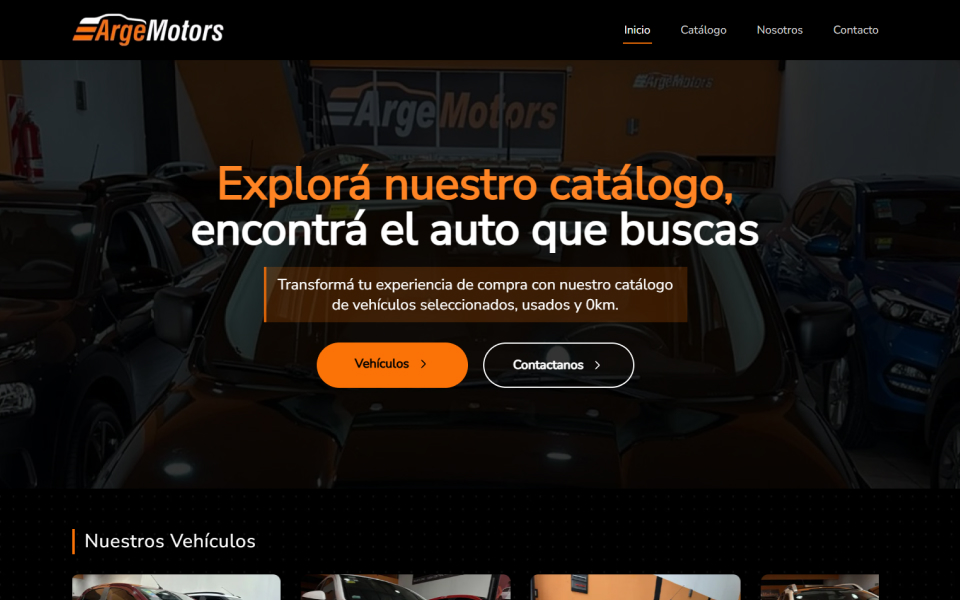
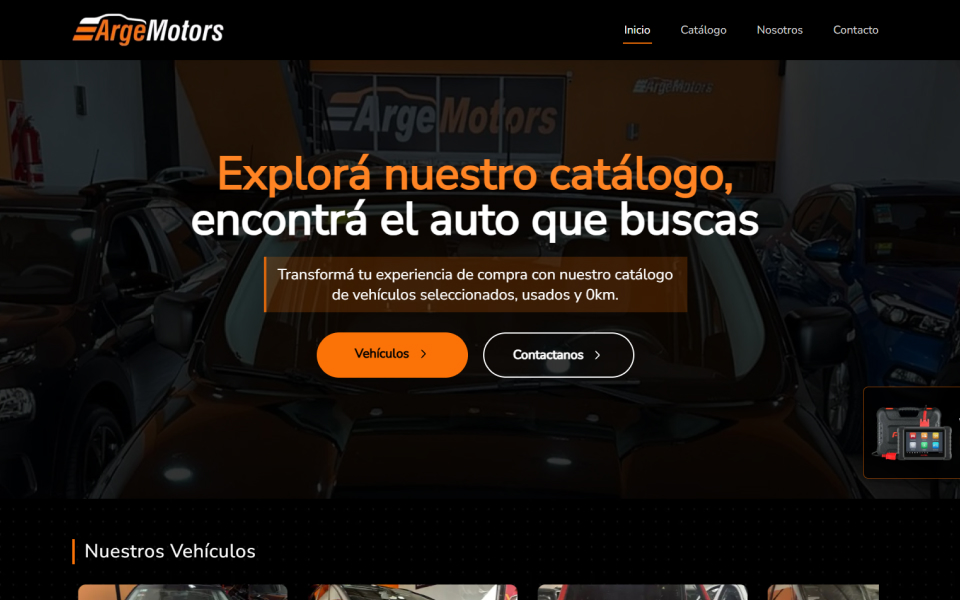
escaner added

diff --git a/src/app/(public)/escaner/page.tsx b/src/app/(public)/escaner/page.tsx
@@ -1,0 +1,160 @@
+'use client';
+
+import Image from 'next/image';
+import { company } from '@/app/constants/constants';
+import Header from '@/components/Header';
+import Footer from '@/components/Footer';
+import { motion } from 'framer-motion';
+import Link from 'next/link';
+import WhatsappFillIcon from '@/components/icons/WhatsappFillIcon';
+
+const EscanerPage = () => {
+  return (
+    <>
+      <Header />
+
+      {/* Hero Section */}
+      <section className='relative h-44 md:h-52 lg:h-64 flex items-center justify-center overflow-hidden'>
+        {/* Contenido centrado */}
+        <div className='relative z-10 text-center px-4 max-w-4xl mx-auto'>
+          <motion.h1
+            initial={{ opacity: 0, y: 30 }}
+            animate={{ opacity: 1, y: 0 }}
+            transition={{ duration: 0.6 }}
+            className={`${
+              company.secondaryColor
+                ? 'text-color-secondary-light'
+                : 'text-color-primary-light'
+            } text-2xl md:text-3xl lg:text-4xl mb-3 md:mb-4 lg:mb-5 font-semibold tracking-wide`}
+          >
+            Escáner Vehicular
+          </motion.h1>
+          <motion.p
+            initial={{ opacity: 0, y: 30 }}
+            animate={{ opacity: 1, y: 0 }}
+            transition={{ duration: 0.6, delay: 0.2 }}
+            className='text-xl md:text-2xl text-white/90 font-medium leading-relaxed'
+          >
+            Transparencia y confianza en cada vehículo
+          </motion.p>
+        </div>
+      </section>
+
+      {/* Sección principal */}
+      <section className='pb-16 md:pb-28 relative'>
+        <div className='max-w-7xl mx-auto px-4 sm:px-6 md:px-8 lg:px-10'>
+          <div className='flex flex-col lg:flex-row gap-8 lg:gap-12 items-center'>
+            {/* Imagen del escáner */}
+            <motion.div
+              initial={{ opacity: 0, x: -50 }}
+              whileInView={{ opacity: 1, x: 0 }}
+              transition={{ duration: 0.6 }}
+              viewport={{ once: true }}
+              className='w-full lg:w-1/2 flex justify-center'
+            >
+              <div className='relative w-full max-w-md aspect-square'>
+                <Image
+                  src='/assets/inicio/escaner.webp'
+                  alt='Escáner de kilometraje profesional'
+                  fill
+                  className='object-contain'
+                  priority
+                />
+              </div>
+            </motion.div>
+
+            {/* Contenido */}
+            <motion.div
+              initial={{ opacity: 0, x: 50 }}
+              whileInView={{ opacity: 1, x: 0 }}
+              transition={{ duration: 0.6, delay: 0.2 }}
+              viewport={{ once: true }}
+              className='w-full lg:w-1/2'
+            >
+              <div className='mb-6'>
+                <div className='flex items-center gap-3 mb-4'>
+                  <div
+                    className={`${
+                      company.secondaryColor
+                        ? 'bg-color-secondary-light'
+                        : 'bg-color-primary'
+                    } w-1 h-8 rounded`}
+                  ></div>
+                  <h2 className='text-2xl md:text-3xl lg:text-4xl font-bold text-color-title-light'>
+                    Verificá el kilometraje real
+                  </h2>
+                </div>
+                <p className='text-lg md:text-xl text-color-text-light leading-relaxed mb-6'>
+                  En {company.name} utilizamos tecnología de última generación
+                  para garantizar la transparencia y confianza en cada
+                  transacción. Contamos con equipamiento profesional de escaneo
+                  que nos permite verificar el kilometraje real de cualquier
+                  vehículo con precisión y confiabilidad.
+                </p>
+              </div>
+
+              {/* Características */}
+              <div className='space-y-4 mb-8'>
+                <motion.div
+                  initial={{ opacity: 0, y: 20 }}
+                  whileInView={{ opacity: 1, y: 0 }}
+                  transition={{ duration: 0.5, delay: 0.3 }}
+                  viewport={{ once: true }}
+                  className='bg-color-bg-secondary border border-neutral-800 rounded-lg p-4'
+                >
+                  <h3 className='text-lg font-semibold text-color-title-light mb-2 flex items-center gap-2'>
+                    <span className='text-color-primary'>✓</span>
+                    Verificación completa
+                  </h3>
+                  <p className='text-color-text-light'>
+                    Lectura precisa del kilometraje almacenado en los módulos
+                    del vehículo
+                  </p>
+                </motion.div>
+
+                <motion.div
+                  initial={{ opacity: 0, y: 20 }}
+                  whileInView={{ opacity: 1, y: 0 }}
+                  transition={{ duration: 0.5, delay: 0.4 }}
+                  viewport={{ once: true }}
+                  className='bg-color-bg-secondary border border-neutral-800 rounded-lg p-4'
+                >
+                  <h3 className='text-lg font-semibold text-color-title-light mb-2 flex items-center gap-2'>
+                    <span className='text-color-primary'>✓</span>
+                    Transparencia total
+                  </h3>
+                  <p className='text-color-text-light'>
+                    Te mostramos los datos reales del vehículo para que tomes
+                    decisiones informadas
+                  </p>
+                </motion.div>
+              </div>
+
+              {/* Botón de contacto */}
+              <motion.div
+                initial={{ opacity: 0, y: 20 }}
+                whileInView={{ opacity: 1, y: 0 }}
+                transition={{ duration: 0.5, delay: 0.6 }}
+                viewport={{ once: true }}
+              >
+                <Link
+                  href={`https://api.whatsapp.com/send?phone=549${company.whatsapp[0]}&text=Hola! Me gustaría consultar sobre la verificación de kilometraje`}
+                  target='_blank'
+                  rel='noopener noreferrer'
+                  className='group inline-flex items-center gap-3 bg-color-primary hover:bg-color-primary-dark text-black font-semibold px-6 py-4 rounded-full transition-colors duration-300 shadow-lg'
+                >
+                  <WhatsappFillIcon className='w-6 h-6' />
+                  <span>Consultar por WhatsApp</span>
+                </Link>
+              </motion.div>
+            </motion.div>
+          </div>
+        </div>
+      </section>
+
+      <Footer />
+    </>
+  );
+};
+
+export default EscanerPage;

diff --git a/src/components/HeroHome.tsx b/src/components/HeroHome.tsx
@@ -1,6 +1,7 @@
 'use client';
 
 import Link from 'next/link';
+import Image from 'next/image';
 import HeroCarousel from './HeroCarousel';
 import { motion } from 'framer-motion';
 import { company } from '@/app/constants/constants';
@@ -13,7 +14,7 @@ const HeroHome = () => {
     >
       <div className={`max-w-[1920px] w-full flex flex-col items-center z-10`}>
         <div className='flex justify-center max-w-6xl lg:max-w-[1920px] w-full mx-4 sm:mx-6 md:mx-8 lg:mx-10'>
-          <article className='h-[460px] md:h-[480px] lg:h-[600px] xl:h-[680px] relative w-full flex flex-col items-center justify-center md:min-w-[430px] lg:min-w-[540px] z-20 px-4 md:px-8 lg:px-12'>
+          <article className='pt-10 pb-32 sm:pb-40 sm:pt-12 md:pt-24 lg:pt-36 lg:pb-48 relative w-full flex flex-col items-center lg:justify-center md:min-w-[430px] lg:min-w-[540px] z-20 px-4 md:px-8 lg:px-12'>
             <HeroCarousel />
             <div
               className={`absolute w-full h-full top-0 -right-0 bg-black/70 md:bg-black/80 -z-20`}
@@ -25,7 +26,7 @@ const HeroHome = () => {
               <motion.div
                 initial={{ opacity: 0, y: 30 }}
                 animate={{ opacity: 1, y: 0 }}
-                transition={{ duration: 0.6 }}
+                transition={{ duration: 0.5 }}
                 className='mb-4 md:mb-6'
               >
                 <h2 className='text-[28px] sm:text-4xl md:text-5xl lg:text-6xl xl:text-7xl font-bold leading-tight text-nowrap'>
@@ -43,7 +44,7 @@ const HeroHome = () => {
               <motion.div
                 initial={{ opacity: 0, y: 30 }}
                 animate={{ opacity: 1, y: 0 }}
-                transition={{ duration: 0.6, delay: 0.2 }}
+                transition={{ duration: 0.5, delay: 0.1 }}
                 className='text-lg md:text-xl lg:text-2xl text-white mb-6 md:mb-8 leading-relaxed max-w-lg md:max-w-xl lg:max-w-2xl bg-color-primary/20 p-3 relative'
               >
                 <p>
@@ -57,7 +58,7 @@ const HeroHome = () => {
               <motion.div
                 initial={{ opacity: 0, y: 30 }}
                 animate={{ opacity: 1, y: 0 }}
-                transition={{ duration: 0.6, delay: 0.4 }}
+                transition={{ duration: 0.5, delay: 0.2 }}
                 className='flex flex-col sm:flex-row gap-4 md:gap-6'
               >
                 {/* Botón primario */}
@@ -111,6 +112,37 @@ const HeroHome = () => {
                 </Link>
               </motion.div>
             </div>
+
+            {/* Banner del escáner - Centrado en mobile, derecha en desktop */}
+            <motion.div
+              initial={{ opacity: 0, x: 30 }}
+              animate={{ opacity: 1, x: 0 }}
+              transition={{ duration: 0.5, delay: 0.3 }}
+              className='absolute bottom-4 sm:bottom-8 md:bottom-6 lg:bottom-8 left-0 right-0 flex justify-center md:left-auto md:right-6 md:justify-end lg:right-8 z-30'
+            >
+              <Link
+                href='/escaner'
+                className='group flex items-center gap-3 md:gap-3 bg-black/80 hover:bg-black/90 backdrop-blur-sm border border-color-primary/50 hover:border-color-primary rounded-lg py-1 px-2 md:py-2 md:px-3 shadow-lg transition-all duration-300'
+              >
+                <div className='relative w-20 h-20 md:w-24 md:h-24 lg:w-28 lg:h-28 xl:w-32 xl:h-32 flex-shrink-0'>
+                  <Image
+                    src='/assets/inicio/escaner.webp'
+                    alt='Escáner Autel MaxiCheck MX808S'
+                    fill
+                    className='object-contain'
+                    sizes='(max-width: 768px) 48px, 64px'
+                  />
+                </div>
+                <div className='flex flex-col'>
+                  <span className='text-white text-lg lg:text-xl font-semibold leading-tight group-hover:text-color-primary transition-colors'>
+                    Verificá el
+                  </span>
+                  <span className='text-color-primary text-lg lg:text-xl font-bold leading-tight group-hover:text-color-primary-light transition-colors'>
+                    kilometraje real
+                  </span>
+                </div>
+              </Link>
+            </motion.div>
           </article>
         </div>
       </div>